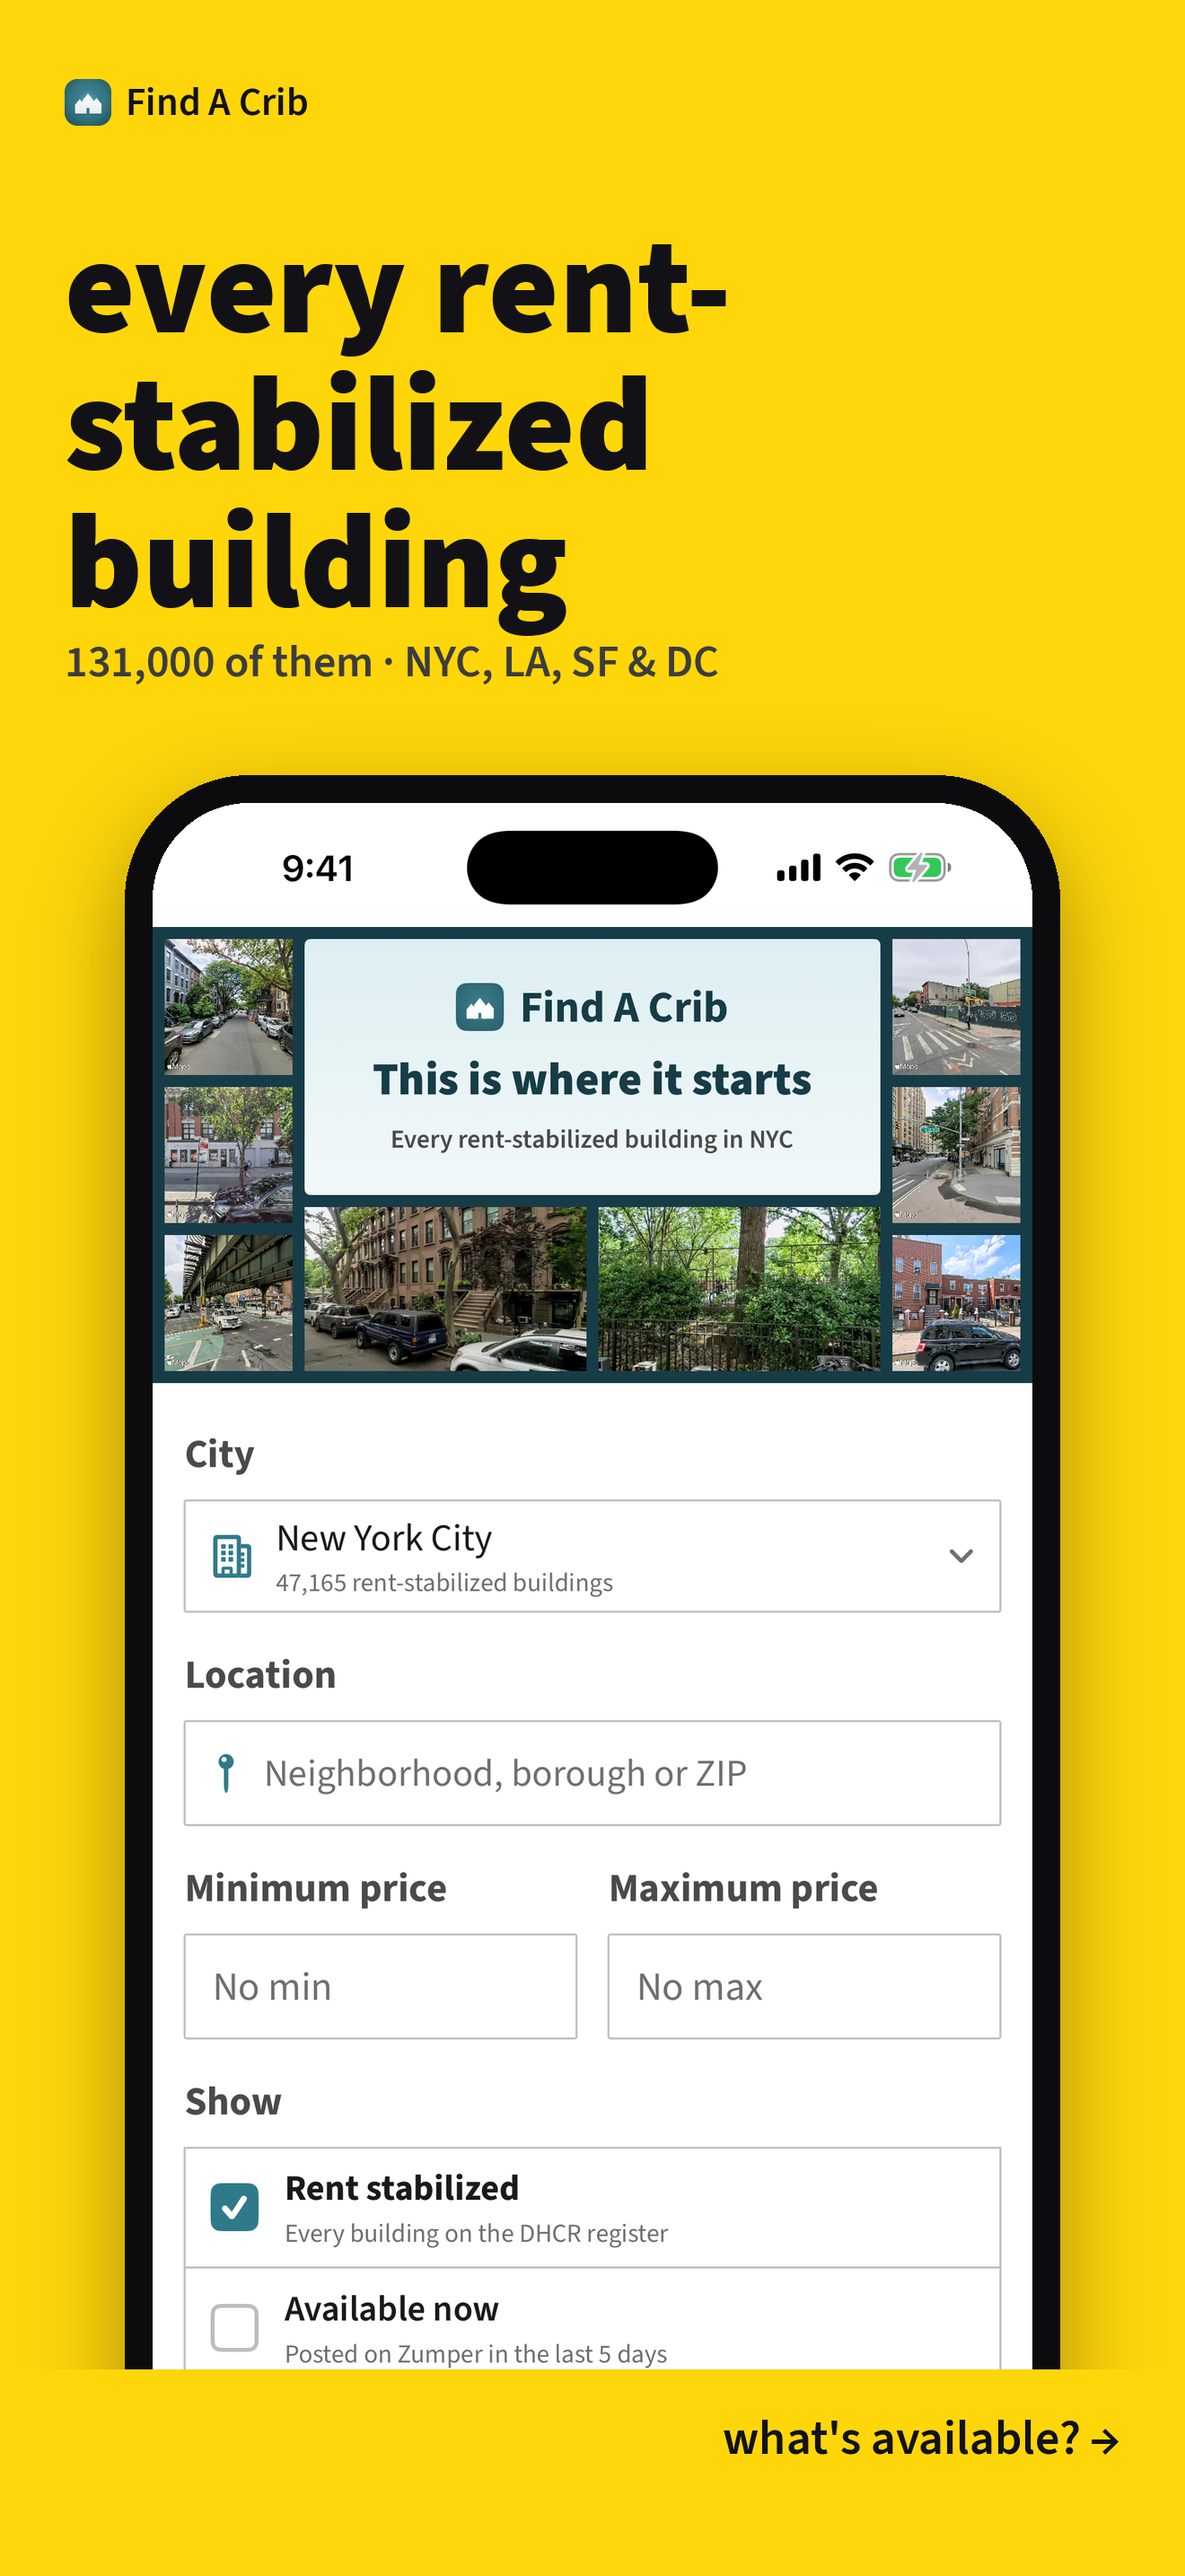
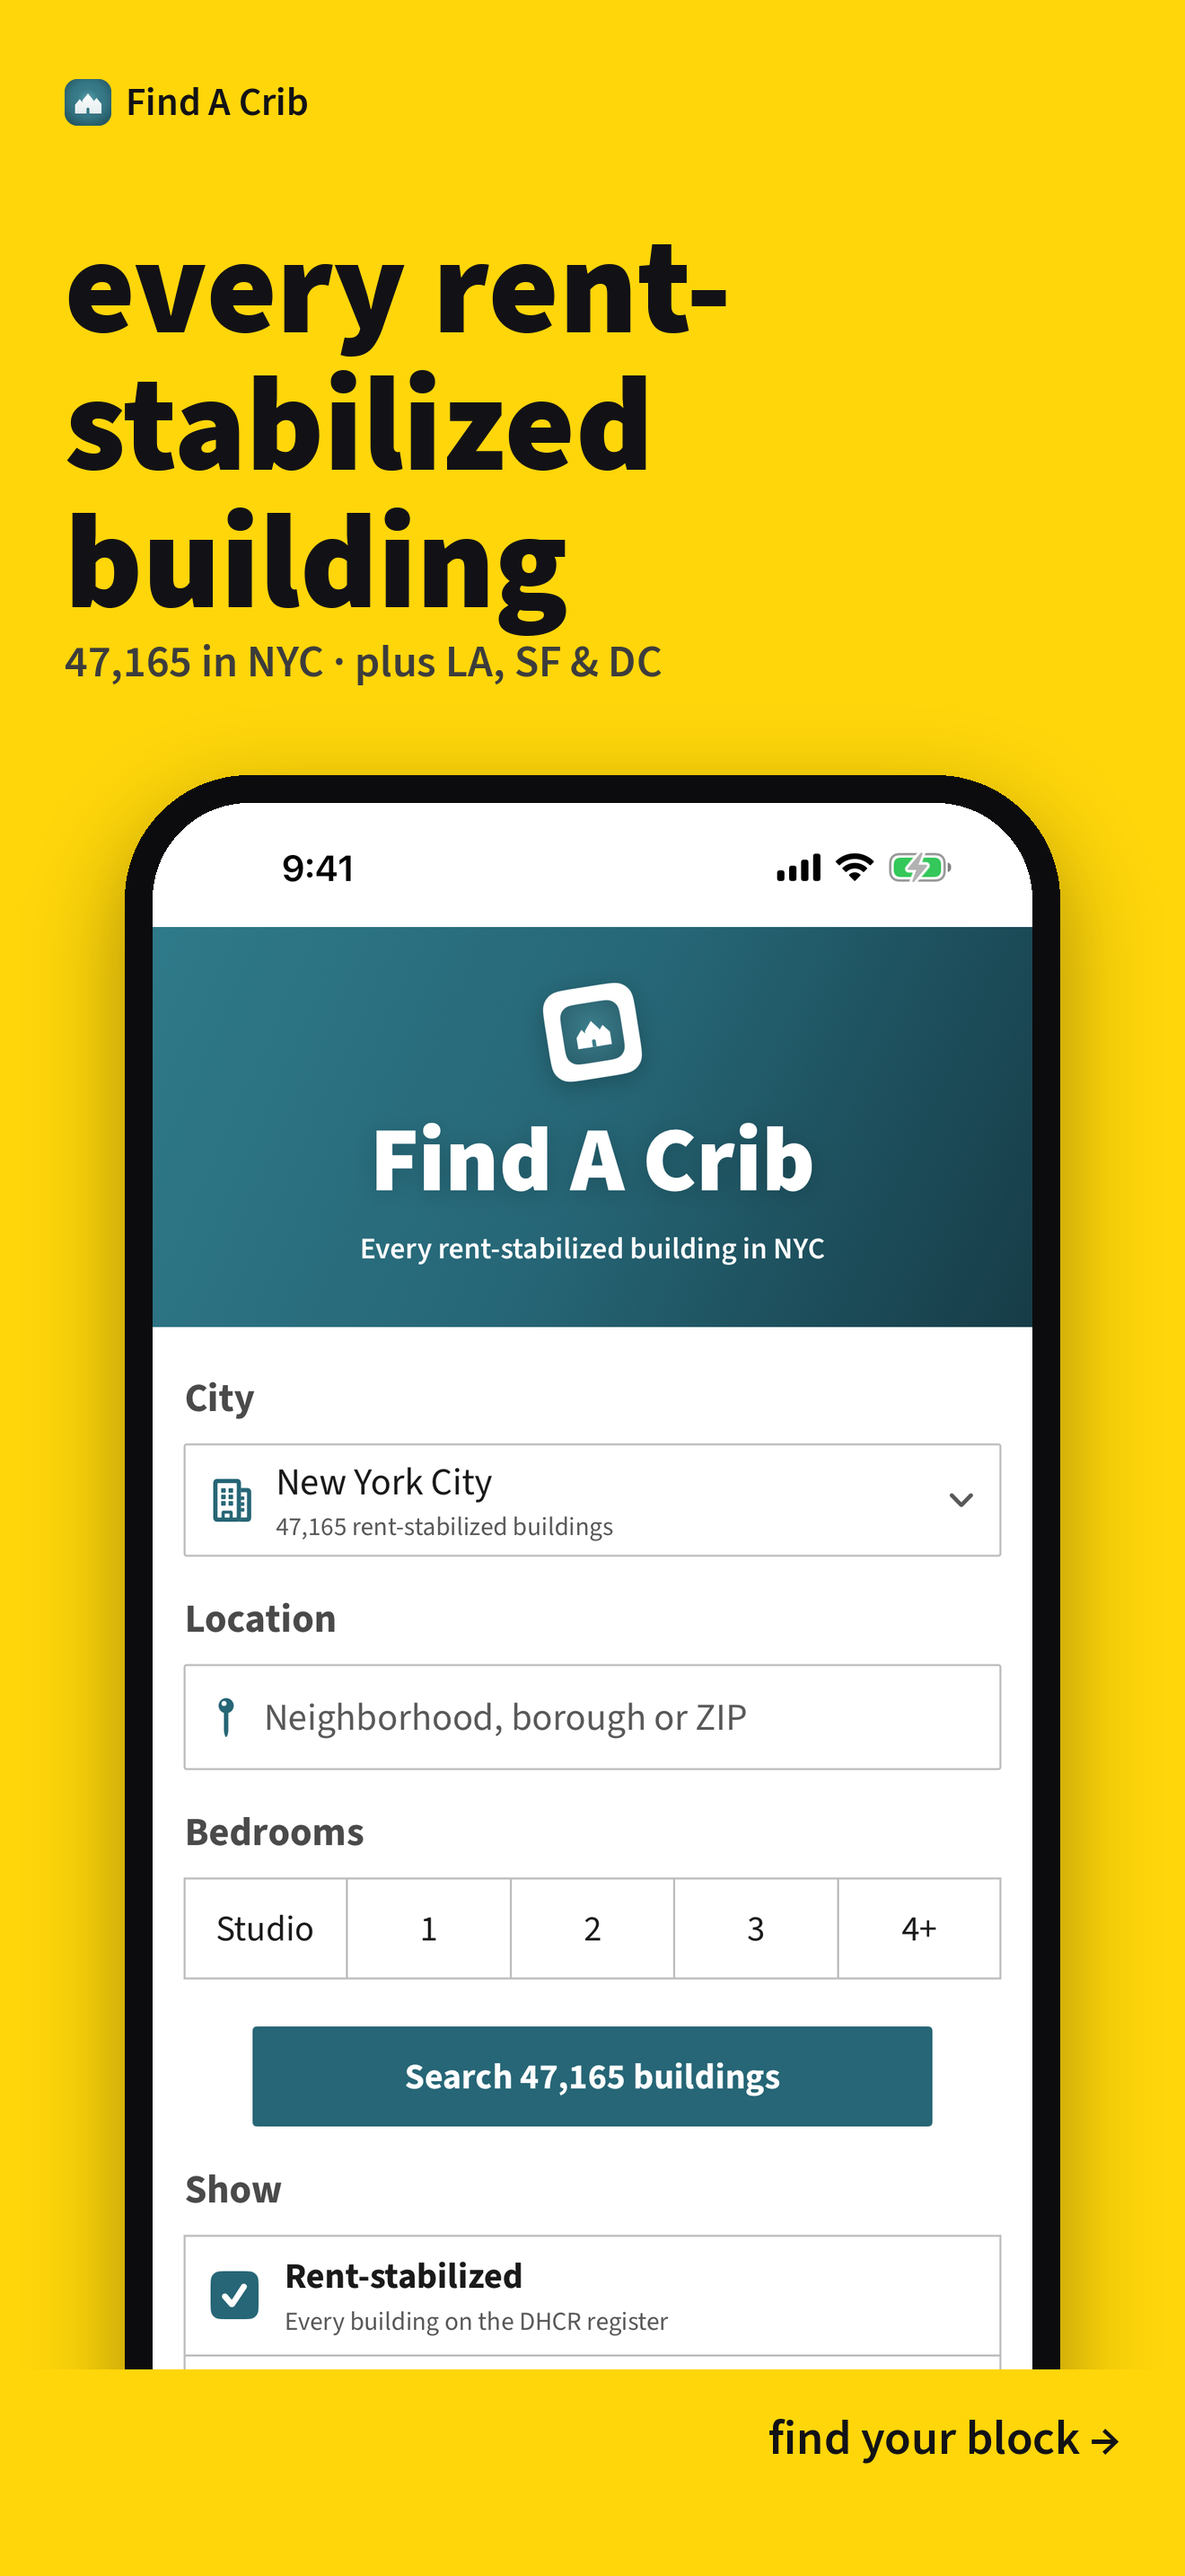
App Store screenshots: ten panels, one feature each, from today's app
Owner: "update our app store preview screenshots with what the app looks
like now ... highlight 10 of our best features". Same house style (yellow
and white fields, Source Sans Black lowercase headlines, device bezel,
continuation cues): every building, map, rent estimates, violations,
managing agent, lotteries, Your Crib, rights, renewal coach, repairs. The
"what's for rent right now" panel goes: listing data left the app 10/6.

scripts/capture_marketing.sh [--ipad] runs the new MarketingCapture UI
test (skipped unless TEST_RUNNER_MARKETING_RAW is set), signed in with the
App Review demo account so violations and the agent show. iPad panels
1 and 8-10 use the phone screen: the tools open as a form sheet over a
signed-in Profile there.

XCUITest: MarketingCapture added, skipped in normal runs. Secrets: the
demo credentials stay in the gitignored asc-config.env. No LLM surface.

Changed region(s): [[0.1242, 0.3103, 0.8697, 0.931], [0.0621, 0.2483, 0.5902, 0.2793], [0.6212, 0.931, 0.9008, 0.962]]

diff --git a/ios/FindACribUITests/MarketingCapture.swift b/ios/FindACribUITests/MarketingCapture.swift
@@ -1,0 +1,75 @@
+import XCTest
+
+/// Raw screens for the App Store panels (scripts/capture_marketing.sh runs it;
+/// skipped in every other run). Signs in with the App Review demo account so
+/// the building page shows violations and the managing agent, then saves one
+/// PNG per screen into $MARKETING_RAW for scripts/make_screenshots.py.
+final class MarketingCapture: XCTestCase {
+    private let app = XCUIApplication()
+    private var dir = ""
+
+    override func setUpWithError() throws {
+        let env = ProcessInfo.processInfo.environment
+        dir = env["MARKETING_RAW"] ?? ""
+        try XCTSkipIf(dir.isEmpty, "set TEST_RUNNER_MARKETING_RAW to capture")
+        XCUIDevice.shared.orientation = .portrait
+        continueAfterFailure = true
+    }
+
+    private func launch(_ args: [String]) {
+        app.terminate()
+        app.launchArguments = ["--no-launch-prompt", "--no-launch-splash"] + args
+        app.launch()
+    }
+
+    private func shot(_ name: String, wait: Double = 4) {
+        Thread.sleep(forTimeInterval: wait)
+        let png = XCUIScreen.main.screenshot().pngRepresentation
+        try? png.write(to: URL(fileURLWithPath: dir).appendingPathComponent("\(name).png"))
+    }
+
+    private func signIn() {
+        let env = ProcessInfo.processInfo.environment
+        guard let email = env["DEMO_EMAIL"], let pw = env["DEMO_PASSWORD"] else { return }
+        launch(["--tab", "profile"])
+        let open = app.buttons["sign-in-email"]
+        guard open.waitForExistence(timeout: 15) else { return }   // already signed in
+        open.tap()
+        let field = app.textFields["email-field"]
+        XCTAssertTrue(field.waitForExistence(timeout: 10))
+        field.tap(); field.typeText(email)
+        let pass = app.secureTextFields["password-field"]
+        if !pass.exists { app.buttons["email-submit"].tap() }
+        XCTAssertTrue(pass.waitForExistence(timeout: 10))
+        pass.tap(); pass.typeText(pw)
+        app.buttons["email-submit"].tap()
+        XCTAssertFalse(app.buttons["sign-in-email"].waitForExistence(timeout: 15) && app.buttons["sign-in-email"].isHittable)
+    }
+
+    func testCaptureScreens() {
+        signIn()
+        let union = "3003430015"   // 172 Union St, Brooklyn
+        launch([]);                                        shot("home", wait: 8)
+        launch(["--route", "map"]);                        shot("map", wait: 8)
+        launch(["--route", "detail:\(union)"]);            shot("detail", wait: 8)
+        launch(["--route", "detail-agent:\(union)"]);      shot("agent", wait: 8)
+        launch(["--route", "hpd:\(union)"]);               shot("violations", wait: 8)
+        launch(["--route", "results"]);                    shot("results", wait: 8)
+        launch(["--lotteries-demo", "--tab", "lotteries"])
+        // The panel is the lotteries themselves, not the Plus banner over them.
+        let upsell = app.buttons["realtime-upsell-dismiss"]
+        if upsell.waitForExistence(timeout: 8) { upsell.tap() }
+        shot("lotteries", wait: 4)
+        launch(["--casa-demo", "--tab", "casa"]);          shot("casa", wait: 8)
+        for tool in ["rights", "renewal", "rent-increase", "repair"] {
+            launch(["--tab", "profile"])
+            Thread.sleep(forTimeInterval: 3)
+            app.open(URL(string: "findacrib://tool/\(tool)")!)
+            shot(tool, wait: 4)
+        }
+        launch(["--tab", "profile"])
+        let packet = app.buttons["profile-packet"]
+        for _ in 0..<8 where !packet.isHittable { app.swipeUp() }
+        if packet.isHittable { packet.tap(); shot("packet") }
+    }
+}

diff --git a/ios/scripts/make_screenshots.py b/ios/scripts/make_screenshots.py
@@ -109,7 +109,10 @@ def headline(draw, lines, y, ink, size=150):
 
 
 def sub(draw, text, y, ink):
-    draw.text((int(72 * S), y), text, font=font(int(50 * S), medium=True), fill=ink)
+    size = int(50 * S)
+    while size > 30 and draw.textbbox((0, 0), text, font=font(size, medium=True))[2] > W - int(144 * S):
+        size -= 2
+    draw.text((int(72 * S), y), text, font=font(size, medium=True), fill=ink)
     return y + int(70 * S)
 
 
@@ -140,19 +143,17 @@ def panel(n, name, bg, lines, subline, shot, cue_text=None, dev_w=980):
     print("wrote", path)
 
 
-IPAD = [
-    (1, "home",      "YELLOW", ["every rent-stabilized", "building in New York"],
-     "…and Los Angeles, San Francisco and DC", "what's available? →"),
-    (2, "results",   "WHITE",  ["what's for rent", "right now"],
-     "asking rents posted in the last 5 days", "see it on the map →"),
-    (3, "map",       "YELLOW", ["search the block", "you want"],
-     "prices on pins · drag, then tap search this area", "who runs it? →"),
-    (4, "detail",    "WHITE",  ["know the building", "first"],
-     "violations, pests, the managing agent, typical rent", "lotteries next →"),
-    (5, "lotteries", "YELLOW", ["lotteries in your", "boroughs"],
-     "Housing Connect lotteries & re-rentals, by bedrooms", "and what's on →"),
-    (6, "events",    "WHITE",  ["tenant clinics", "and housing help"],
-     "the City's own events calendar", None),
+PHONE = [
+    ("home",      ["every rent-", "stabilized", "building"], "47,165 in NYC · plus LA, SF & DC",            "find your block →"),
+    ("map",       ["search the", "block you", "want"],       "drag the map, then search this area",         "what does it cost? →"),
+    ("results",   ["know the", "rent before", "you call"],   "estimated rents, units and open violations",  "look inside →"),
+    ("detail",    ["know the", "building", "first"],         "open violations, complaints and pests",       "who runs it? →"),
+    ("agent",     ["find who", "runs it"],                   "the managing agent and owner, from HPD",      "apply for a lottery →"),
+    ("lotteries", ["lotteries in", "your", "boroughs"],      "Housing Connect lotteries, re-rentals & NJ",  "already have a place? →"),
+    ("casa",      ["watch your", "block"],                   "311 calls on your building and crime nearby", "know your rights →"),
+    ("rights",    ["know your", "rights"],                   "NYC tenant law in plain words",               "lease ending? →"),
+    ("renewal",   ["plan your", "renewal"],                  "your legal increase + an email to negotiate", "something broken? →"),
+    ("repair",    ["get repairs", "made"],                   "a letter to your landlord, then 311",         None),
 ]
 
 
@@ -163,14 +164,26 @@ def make_ipad():
     g["S"] = 2064 / 1320
     g["RAW"] = os.path.join(HERE, "marketing", "raw-ipad")
     g["OUT"] = os.path.join(HERE, "marketing", "asc-screenshots-ipad")
-    for n, name, bg, lines, subline, cue_text in IPAD:
+    old = [f for f in os.listdir(OUT) if f.endswith(".png")] if os.path.isdir(OUT) else []
+    for f in old:
+        os.remove(os.path.join(OUT, f))
+    for n, (name, lines, subline, cue_text) in enumerate(PHONE, 1):
         # Panel 1 shows the iPhone app: iMessage's App Store link card uses the
         # first iPad panel (its 3:4 shape fits the bubble), and the owner wants
-        # that card to show the phone (2026-10-09). Panels 2-6 stay iPad.
-        phone = n == 1
+        # that card to show the phone (2026-10-09). The renter tools open as a
+        # small form sheet on iPad, over Profile and its signed-in name, so
+        # they show the phone too (2026-10-17). The rest stay iPad.
+        phone = n == 1 or name in ("rights", "renewal", "repair")
         shot = os.path.join(HERE, "marketing", "raw", f"{name}.png") if phone else os.path.join(RAW, f"{name}.png")
-        panel(n, name, YELLOW if bg == "YELLOW" else WHITE, lines, subline,
+        panel(n, name, YELLOW if n % 2 else WHITE, two_lines(lines), subline,
               shot, cue_text, dev_w=int(W * (0.44 if phone else 0.60)))
+
+
+def two_lines(lines):
+    """The phone's three-line headline as two: the iPad canvas is squarer."""
+    words = " ".join(lines).replace("- ", "-").split(" ")
+    best = min(range(1, len(words)), key=lambda i: (abs(len(" ".join(words[:i])) - len(" ".join(words[i:]))), -i))
+    return [" ".join(words[:best]), " ".join(words[best:])]
 
 
 if __name__ == "__main__":
@@ -178,13 +191,10 @@ if __name__ == "__main__":
     if "--ipad" in sys.argv:
         make_ipad()
         raise SystemExit
-    panel(1, "home", YELLOW, ["every rent-", "stabilized", "building"],
-          "131,000 of them · NYC, LA, SF & DC", os.path.join(RAW, "home.png"), "what's available? →")
-    panel(2, "results", WHITE, ["what's for", "rent right", "now"],
-          "asking rents posted in the last 5 days", os.path.join(RAW, "results.png"), "see it on the map →")
-    panel(3, "map", YELLOW, ["search the", "block you", "want"],
-          "prices on pins · drag, then tap search this area", os.path.join(RAW, "map.png"), "who runs it? →")
-    panel(4, "detail", WHITE, ["know the", "building", "first"],
-          "violations, the managing agent, typical rent", os.path.join(RAW, "detail.png"), "apply for a lottery →")
-    panel(5, "lotteries", YELLOW, ["lotteries in", "your", "boroughs"],
-          "Housing Connect lotteries & re-rentals", os.path.join(RAW, "lotteries.png"))
+    # Ten panels, one feature each (owner, 2026-10-17: "highlight 10 of our
+    # best features"); raw screens from scripts/capture_marketing.sh.
+    old = [f for f in os.listdir(OUT) if f.endswith(".png")] if os.path.isdir(OUT) else []
+    for f in old:
+        os.remove(os.path.join(OUT, f))
+    for n, (name, lines, subline, cue_text) in enumerate(PHONE, 1):
+        panel(n, name, YELLOW if n % 2 else WHITE, lines, subline, os.path.join(RAW, f"{name}.png"), cue_text)
